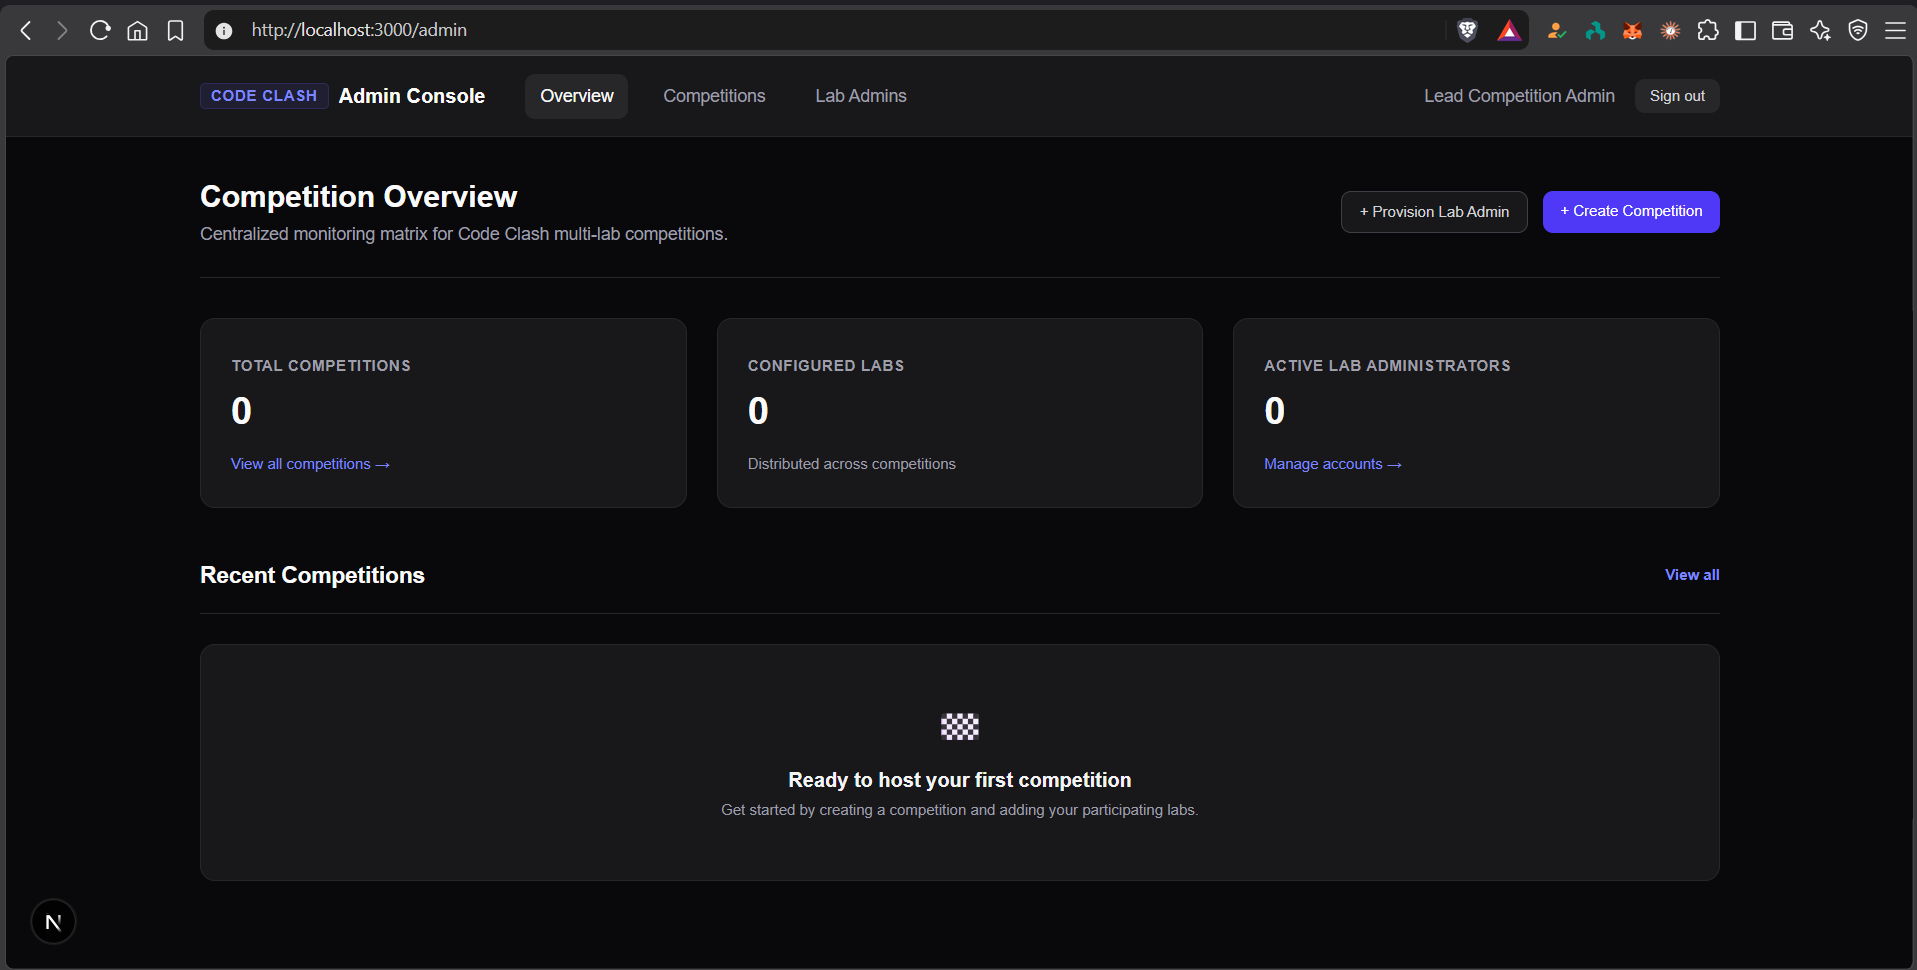
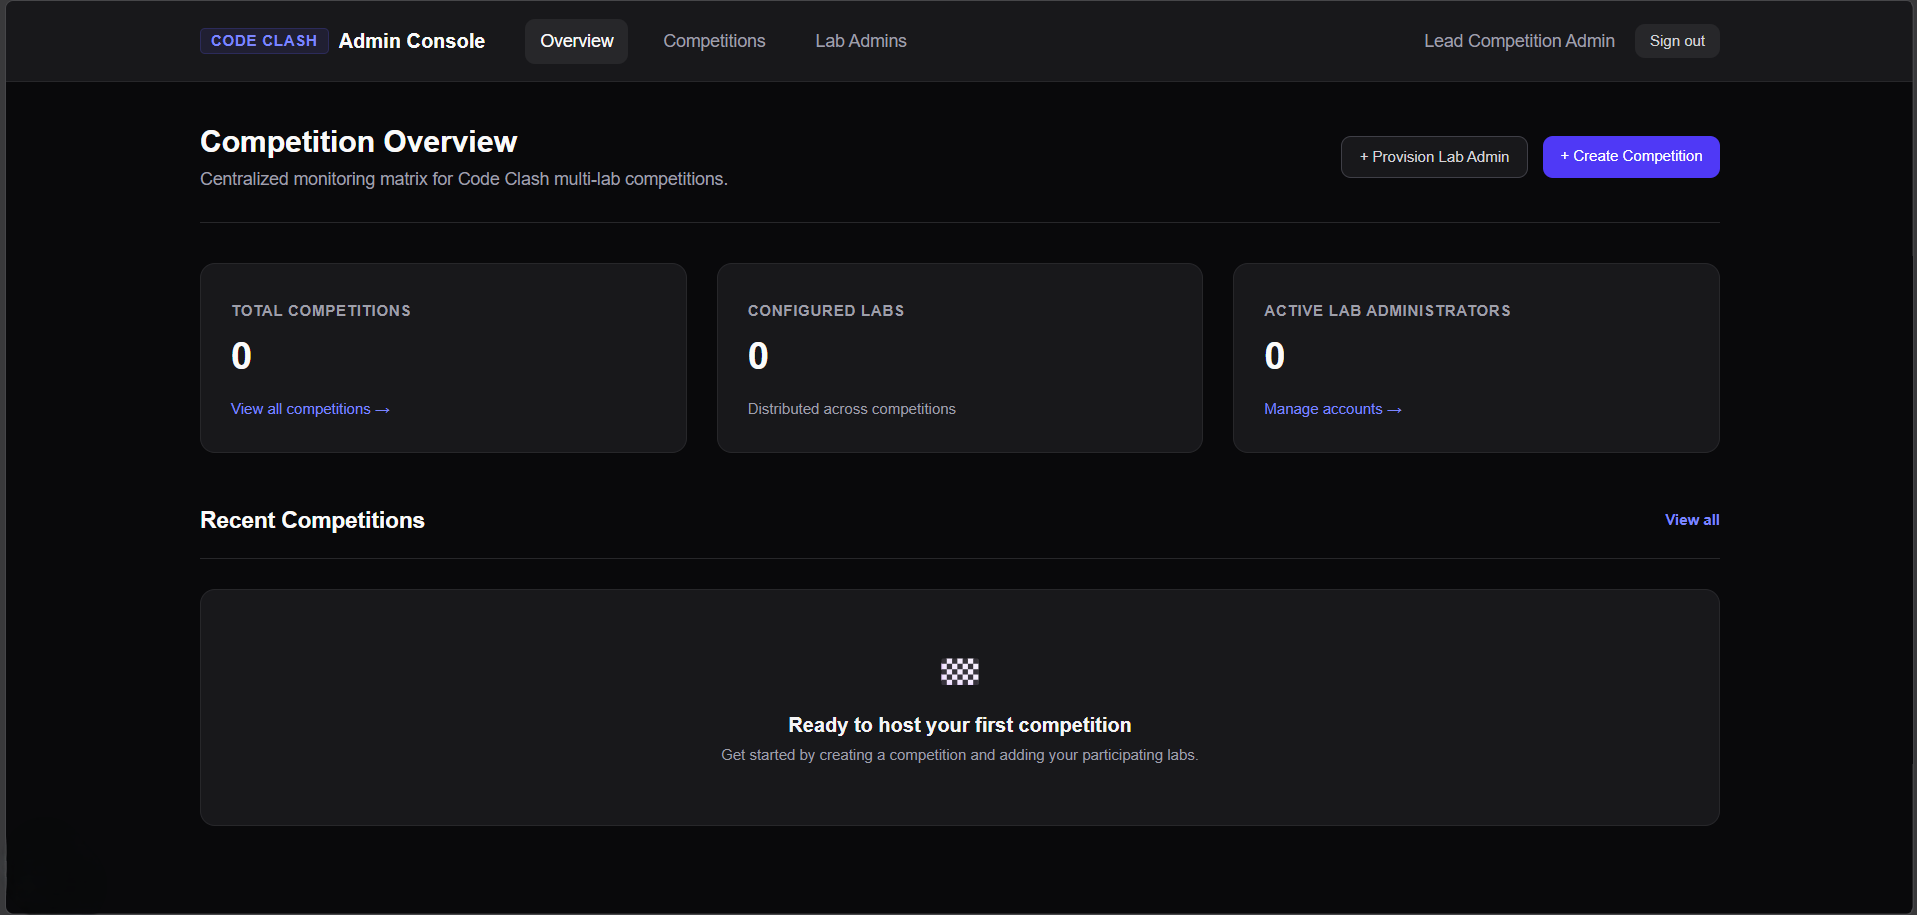
fix(ui): update login label to Username and remove placeholders

diff --git a/src/app/login/LoginForm.tsx b/src/app/login/LoginForm.tsx
@@ -24,16 +24,15 @@ export function LoginForm() {
             htmlFor="email"
             className="block text-sm font-medium text-zinc-900 dark:text-zinc-100"
           >
-            Email address
+            Username
           </label>
           <div className="mt-1">
             <input
               id="email"
               name="email"
-              type="email"
-              autoComplete="email"
+              type="text"
+              autoComplete="username"
               required
-              placeholder="admin@codeclash.com"
               className="block w-full rounded-lg border border-zinc-300 dark:border-zinc-700 bg-white dark:bg-zinc-900 px-3.5 py-2.5 text-zinc-900 dark:text-zinc-100 placeholder:text-zinc-400 focus:outline-none focus:ring-2 focus:ring-indigo-500 focus:border-transparent text-sm transition-colors"
             />
           </div>
@@ -53,7 +52,6 @@ export function LoginForm() {
               type={passwordVisible ? 'text' : 'password'}
               autoComplete="current-password"
               required
-              placeholder="••••••••"
               className="block w-full rounded-lg border border-zinc-300 dark:border-zinc-700 bg-white dark:bg-zinc-900 pl-3.5 pr-12 py-2.5 text-zinc-900 dark:text-zinc-100 placeholder:text-zinc-400 focus:outline-none focus:ring-2 focus:ring-indigo-500 focus:border-transparent text-sm transition-colors [&::-ms-reveal]:hidden"
             />
             <button

diff --git a/tests/signin.spec.ts b/tests/signin.spec.ts
@@ -7,7 +7,7 @@ test('competition administrators can sign in and reach their dashboard', async (
 
   await page.goto('/admin');
   await expect(page).toHaveURL('/');
-  await page.getByLabel('Email address').fill(email);
+  await page.getByLabel(/username|email address/i).fill(email);
   await page.getByLabel('Password', { exact: true }).fill(password);
   await page.getByRole('button', { name: 'Sign in', exact: true }).click();
   await expect(page).toHaveURL('/admin');
